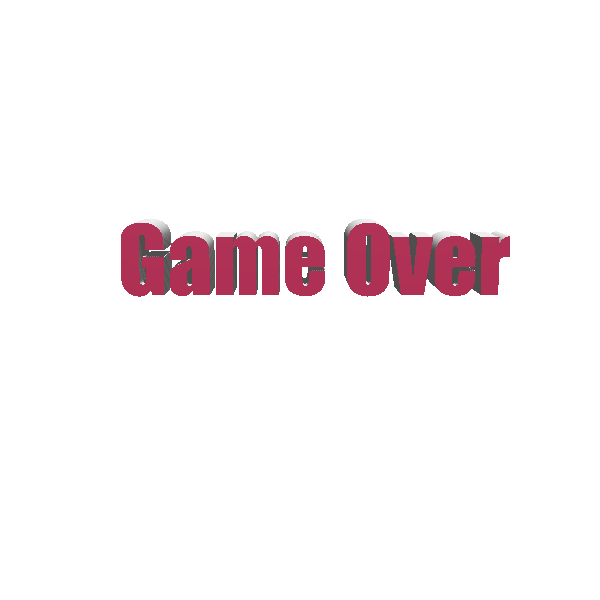
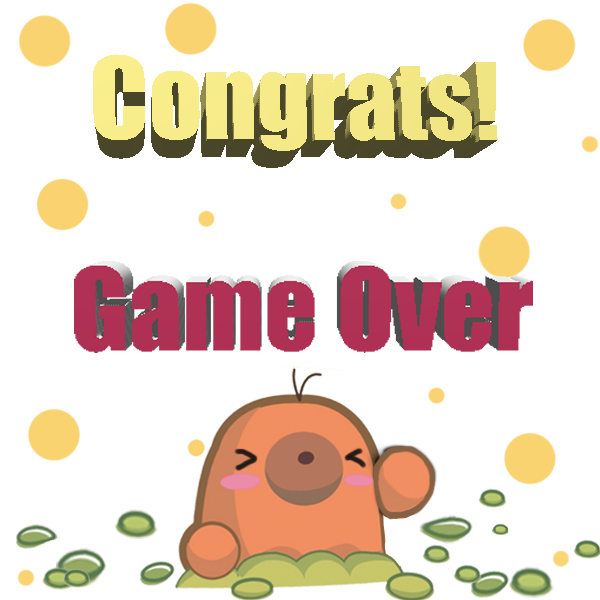
replace game over photo

diff --git a/yc_game/index.html b/yc_game/index.html
@@ -5,7 +5,7 @@
 
   <!-- PLEASE NO CHANGES BELOW THIS LINE (UNTIL I SAY SO) -->
   <script language="javascript" type="text/javascript" src="libraries/p5.min.js"></script>
-  <script language="javascript" type="text/javascript" src="yc_game.js"></script>
+  <script language="javascript" type="text/javascript" src="p5js-temp-yc_game1659937531151238082.js"></script>
   <!-- OK, YOU CAN MAKE CHANGES BELOW THIS LINE AGAIN -->
 
   <!-- This line removes any default padding and style.
